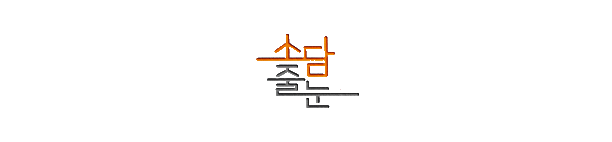
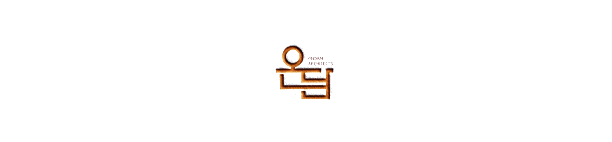
design : BrandBox background-image 추가

Changed region(s): [[0.4036, 0.2535, 0.5899, 0.7606]]

diff --git a/src/components/Brand.js b/src/components/Brand.js
@@ -24,22 +24,21 @@ const BrandBoxContainer = styled.div`
 const BrandBox = styled.div`
   width: 610px;
   height: 140px;
-  border: 1px solid black;
+  border: 1px solid #d6d6d6;
   display: flex;
   justify-content: center;
   align-items: center;
+  cursor: pointer;
+  background-image: url(${(props) => props.src});
+  background-repeat: no-repeat;
+  background-position: center;
+
   &:hover{  
-    background-color : #00000070;
-    color : blue;
+    background-color : #f3f3f3;
     p {
       opacity: 1;
     }
   }
-`
-const BrandName = styled.p`
-  font-size: 20px;
-  color : white;
-  opacity: 0;
 `
 
 function Brand(props) {
@@ -47,17 +46,13 @@ function Brand(props) {
     <BrandWrapper>
       <BrandMainTitle>BRAND</BrandMainTitle>
       <BrandBoxContainer>
-        <BrandBox>
-          <BrandName>일상이 예술, 예술이 일상 아트앤에디션</BrandName>
+        <BrandBox src={"images/brand1.png"}>
         </BrandBox>
-        <BrandBox>
-          <BrandName>일상이 예술, 예술이 일상 아트앤에디션</BrandName>
+        <BrandBox src={"images/brand2.png"}>
         </BrandBox>
-        <BrandBox>
-          <BrandName>일상이 예술, 예술이 일상 아트앤에디션</BrandName>
+        <BrandBox src={"images/brand3.png"}>
         </BrandBox>
-        <BrandBox>
-          <BrandName>일상이 예술, 예술이 일상 아트앤에디션</BrandName>
+        <BrandBox src={"images/brand4.png"}>
         </BrandBox>
 
       </BrandBoxContainer>
